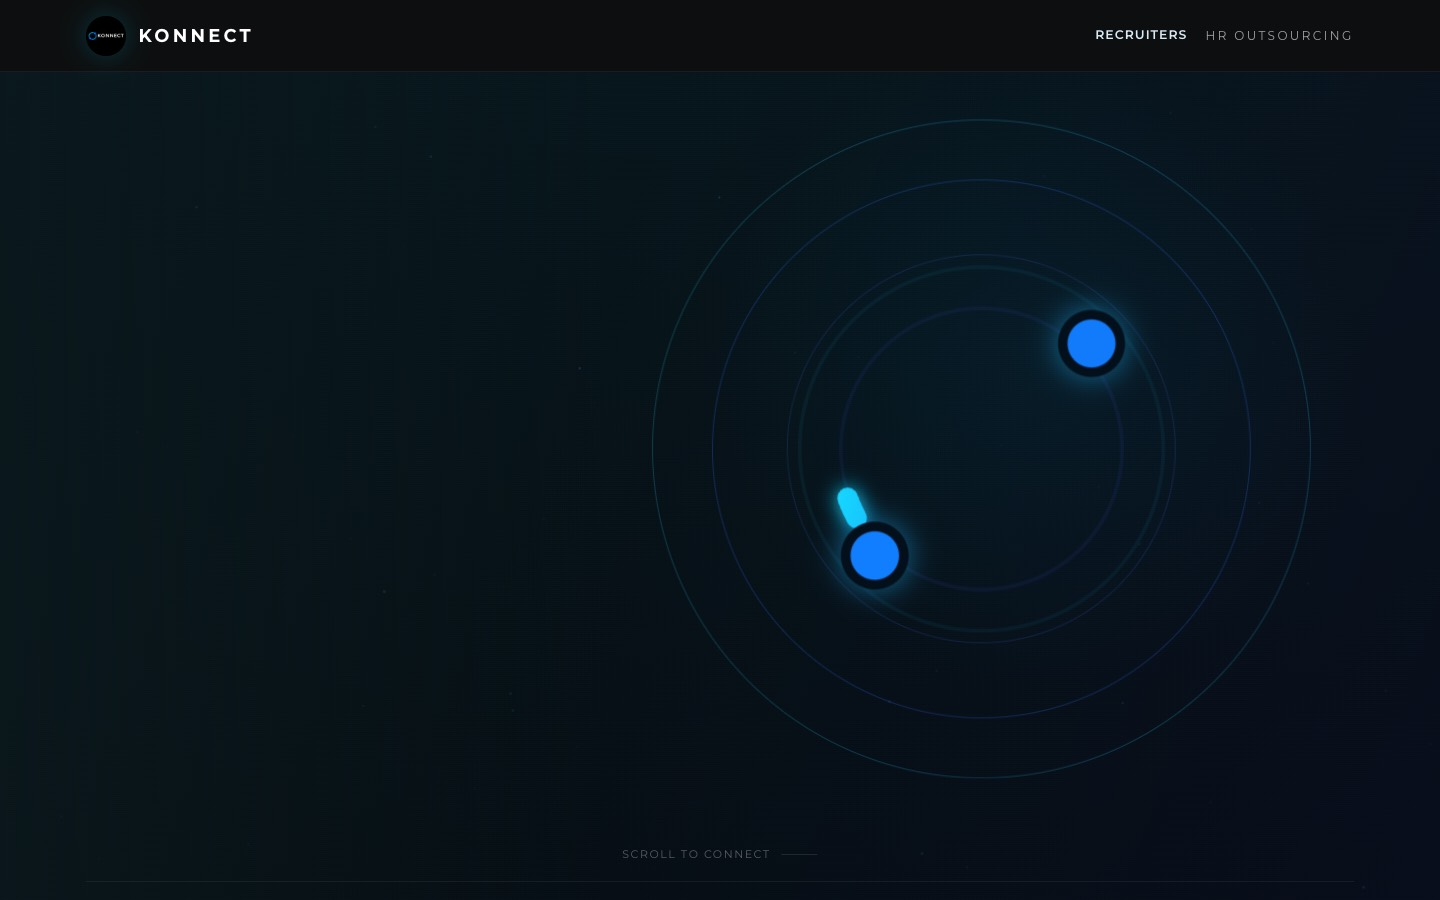
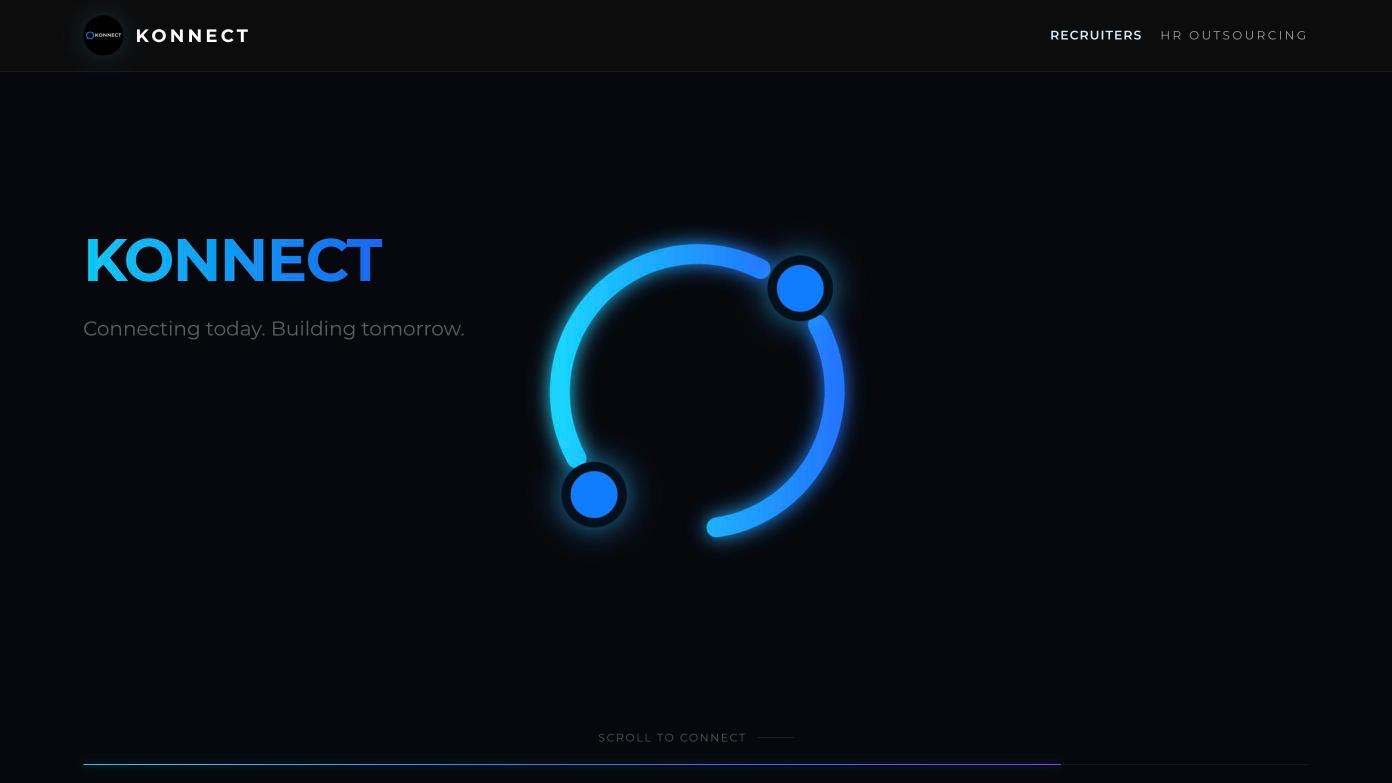
Projects: replace sample web projects with Youth Speak Forum, Konnect and Y2B
Real web projects get their own indexed pages with a live site link and a
'What we delivered' list instead of invented results, and join the sitemap.
New Konnect poster showing the hero headline.

diff --git a/src/content.js b/src/content.js
@@ -174,31 +174,48 @@ export const projects = [
     results: ['Issues caught before closing walls', 'Fewer site visits for stakeholders', 'Clear documentation trail'],
     tourUrl: '',
   },
+  // Real web projects. `live` adds a link to the site; `delivered` replaces the results list.
   {
-    slug: 'property-portal',
-    title: 'Property Listings Portal',
-    client: 'Sample Realty', // TODO
+    slug: 'youth-speak-forum',
+    title: 'Youth Speak Forum',
+    client: 'AIESEC in the United States',
     category: 'web',
     location: 'Online',
     year: '2026',
-    summary: 'A listings website where every property opens straight into its virtual tour.',
-    challenge: 'Listings lived on third party sites with no way to showcase tours.',
-    solution: 'A fast, searchable portal with filters, inquiry forms and embedded tours.',
-    results: ['Owned lead channel', 'Tours viewed on 70% of visits', 'Under 1s page loads'],
-    tourUrl: '',
+    summary: 'An event website with a living, interactive hero and registrations that land straight in Google Sheets.',
+    challenge: 'The forum needed a site that felt as alive as the event and could take delegate, partner, speaker and sponsor registrations without a backend team.',
+    solution: 'A canvas hero that reacts to the cursor, a scroll driven logo, registration modals and a QR page, all saved to Google Sheets with branded confirmation emails.',
+    delivered: ['Built from scratch', 'Design, development, forms, emails and SEO', 'Event structured data and a sitemap'],
+    image: '/work/ysf-desktop.jpg',
+    live: 'https://ysf.aiesecus.org/',
   },
   {
-    slug: 'restaurant-site',
-    title: 'Restaurant Website & Tour',
-    client: 'Sample Dining', // TODO
+    slug: 'konnect',
+    title: 'Konnect',
+    client: 'Konnect HR services',
     category: 'web',
-    location: 'Alexandria',
-    year: '2025',
-    summary: 'A new website with menu, reservations and a tour of the dining room and terrace.',
-    challenge: 'Event bookings needed guests to see the venue before committing.',
-    solution: 'A responsive site with reservations and an embedded 360° tour of each area.',
-    results: ['More private event inquiries', 'Higher reservation conversion', 'Easy menu updates'],
-    tourUrl: '',
+    location: 'Online',
+    year: '2026',
+    summary: 'A hiring platform where applicants apply with CVs, companies browse talent by field and HR teams share tracked apply links.',
+    challenge: 'Matching applicants to companies by field was manual, and HR teams could not tell which links brought in which applicants.',
+    solution: 'A Next.js and TypeScript platform on a separate API: applicant profiles with CV upload, a company side organised by field, and tracked apply links.',
+    delivered: ['Built from scratch', 'Applicant, company and HR flows', 'Docker based deployment'],
+    image: '/work/konnect-desktop.jpg',
+    live: 'https://konnect-services.com/',
+  },
+  {
+    slug: 'youth-to-business',
+    title: 'Youth to Business (Y2B)',
+    client: 'AIESEC in Egypt',
+    category: 'web',
+    location: 'Cairo',
+    year: '2026',
+    summary: 'A full stack conference website with ticket sales, promo codes and content the organising team edits themselves.',
+    challenge: 'The team needed to sell tickets with early bird rates and promo codes, and update the site daily without a developer.',
+    solution: 'A Django site with ticketing and checkout, an admin for every piece of event content, partner applications and Google Sheets forms.',
+    delivered: ['Built from scratch', 'Ticketing, promo codes and checkout', 'Admin managed content'],
+    image: '/work/y2b-desktop.jpg',
+    live: 'https://youth2business.aiesec.org.eg/',
   },
 ]
 

diff --git a/src/pages/ProjectDetail.jsx b/src/pages/ProjectDetail.jsx
@@ -10,7 +10,7 @@ import NotFound from './NotFound.jsx'
 export default function ProjectDetail() {
   const { slug } = useParams()
   const p = projects.find((x) => x.slug === slug)
-  usePageMeta(p?.title, p?.summary, { noindex: true }) // sample projects stay out of search until real
+  usePageMeta(p?.title, p?.summary, { noindex: !p?.live }) // sample projects stay out of search until real
   if (!p) return <NotFound />
   const more = projects.filter((x) => x.slug !== p.slug).slice(0, 3)
 
@@ -57,9 +57,9 @@ export default function ProjectDetail() {
             <p>{p.challenge}</p>
             <h2 className="h3">Our solution</h2>
             <p>{p.solution}</p>
-            <h2 className="h3">Results</h2>
+            <h2 className="h3">{p.delivered ? 'What we delivered' : 'Results'}</h2>
             <ul className="check-list">
-              {p.results.map((r) => <li key={r}><CheckCircle2 aria-hidden="true" />{r}</li>)}
+              {(p.delivered ?? p.results).map((r) => <li key={r}><CheckCircle2 aria-hidden="true" />{r}</li>)}
             </ul>
           </div>
           <aside className="detail-aside" aria-label="Project details">
@@ -69,6 +69,7 @@ export default function ProjectDetail() {
               <div><dt>Location</dt><dd>{p.location}</dd></div>
               <div><dt>Year</dt><dd>{p.year}</dd></div>
             </dl>
+            {p.live && <a href={p.live} target="_blank" rel="noopener" className="link-arrow" style={{ marginTop: 20, display: 'inline-flex' }}>Visit the live site</a>}
             <Link to="/contact" className="btn btn--primary" style={{ width: '100%', marginTop: 28 }}>
               Start a similar project
             </Link>
